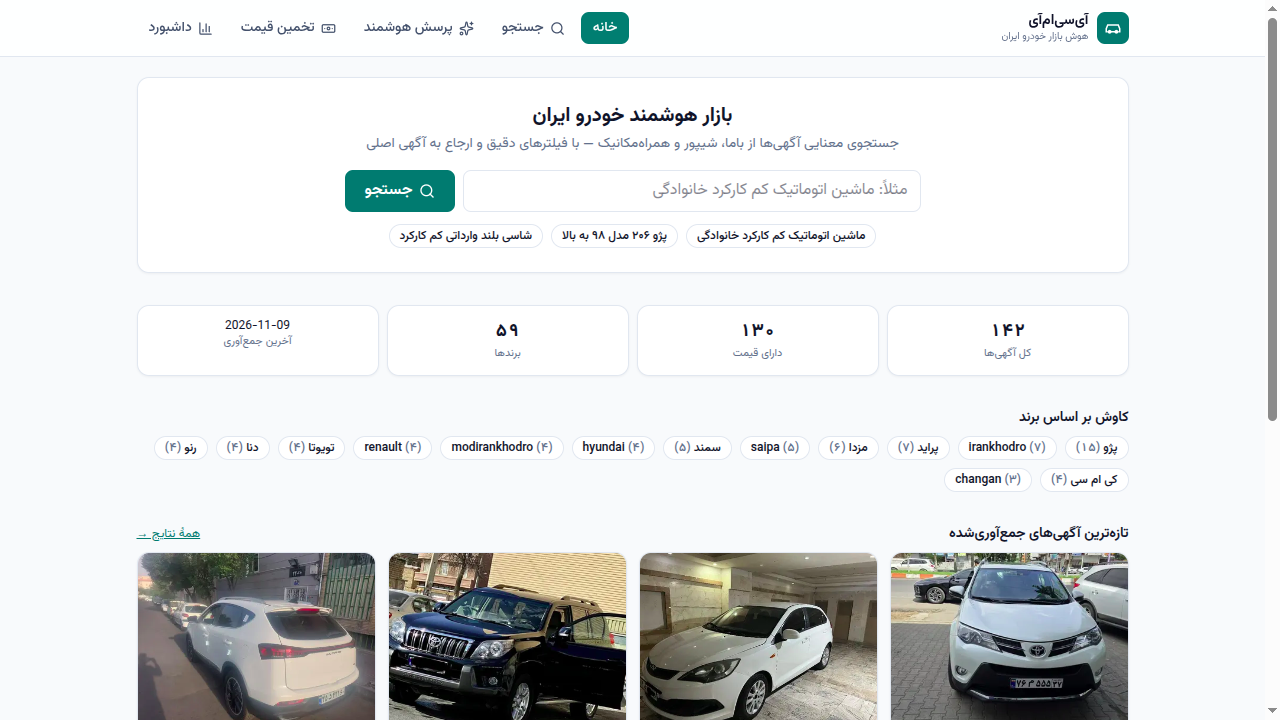
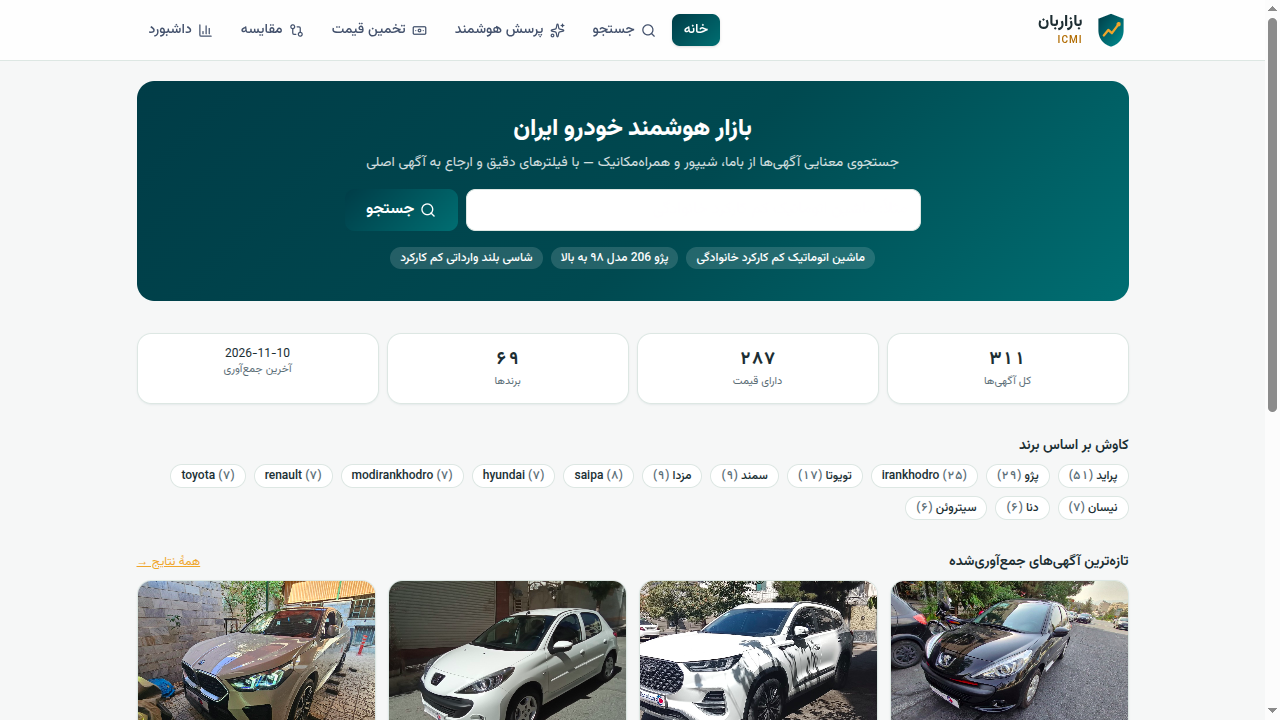
H0: brand identity بازاربان + Direction C palette (petrol/teal/amber)
- Persian product name بازاربان (market guardian) as primary wordmark,
  ICMI as technical identity; shield logo with amber market-signal line
  (SVG mark + favicon, works at all sizes)
- Palette Direction C: petrol #123c46 / teal #176b70 / amber #e6a23c with
  text-safe amber variant; semantic + chart series tokens; gradient hero
  and brand elements; neutral white content surfaces
- Vazirmatn retained (best open Persian UI font)
- metadata + footer updated to بازاربان (ICMI)

diff --git a/web/src/app/globals.css b/web/src/app/globals.css
@@ -1,35 +1,48 @@
 @import "tailwindcss";
 
-/* ICMI design tokens — modern, minimal, confident.
-   Palette: deep emerald primary with a cool cyan-blue gradient partner,
-   warm neutrals for surfaces, restrained amber for platform warmth. */
+/* ICMI | بازاربان design tokens — Direction C (Petrol Blue + Warm Amber)
+   Distinctive automotive/financial-intelligence identity.
+   Amber has a dedicated text-safe variant (WCAG-aware). */
 :root {
-  --background: #f6f8fa;
-  --foreground: #0b1220;
+  /* surfaces */
+  --background: #f6f7f7;
+  --foreground: #202d32;
   --card: #ffffff;
-  --border: #e3e9f0;
-  --muted: #5b6b7f;
-  --bg-muted: #eef2f7;
+  --border: #dfe6e3;
+  --muted: #5e6e76;
+  --bg-muted: #eef1f0;
 
-  /* brand accents */
-  --accent: #0e7c6b;
-  --accent-hover: #0b6355;
-  --accent-soft: #e6f7f3;
-  --accent-2: #0e7490;      /* cyan-blue gradient partner */
-  --gradient-brand: linear-gradient(135deg, #0e7c6b 0%, #0e7490 100%);
-  --gradient-hero: linear-gradient(135deg, #0b1220 0%, #113a36 55%, #0e7490 100%);
+  /* brand */
+  --primary: #123c46;        /* petrol blue */
+  --secondary: #176b70;      /* deep teal */
+  --accent: #e6a23c;         /* warm amber (fills) */
+  --accent-text: #a86a14;    /* text-safe amber */
+  --accent-soft: #fdf3e3;
+  --teal-soft: #e3f1f0;
+  --gradient-brand: linear-gradient(135deg, #123c46 0%, #176b70 100%);
+  --gradient-brand-wide: linear-gradient(120deg, #123c46 0%, #176b70 55%, #1e8a8f 100%);
+  --gradient-hero: linear-gradient(135deg, #123c46 0%, #14484f 55%, #176b70 100%);
 
   /* semantic */
-  --danger: #b91c1c;
-  --warning-bg: #fef3c7;
-  --warning-text: #92400e;
-  --info-bg: #e0e7ff;
-  --info-text: #4338ca;
+  --danger: #b3402e;
+  --danger-soft: #fbeae7;
+  --warning-bg: #fdf3e3;
+  --warning-text: #8a5a10;
+  --info-bg: #e3f1f0;
+  --info-text: #176b70;
+  --success: #2c7a5b;
+
+  /* charts (distinguishable series, light-theme safe) */
+  --chart-1: #176b70;
+  --chart-2: #e6a23c;
+  --chart-3: #5a7da0;
+  --chart-4: #b0576b;
+  --chart-5: #7c9a5c;
 
   /* elevation */
-  --shadow-sm: 0 1px 2px 0 rgb(11 18 32 / 0.06);
-  --shadow-md: 0 6px 18px -4px rgb(11 18 32 / 0.1);
-  --shadow-lg: 0 14px 34px -8px rgb(11 18 32 / 0.18);
+  --shadow-sm: 0 1px 2px 0 rgb(18 60 70 / 0.07);
+  --shadow-md: 0 6px 18px -4px rgb(18 60 70 / 0.12);
+  --shadow-lg: 0 14px 34px -8px rgb(18 60 70 / 0.2);
 }
 
 body {
@@ -51,7 +64,7 @@ body {
 .card-hover:hover {
   box-shadow: var(--shadow-md);
   transform: translateY(-2px);
-  border-color: #c9d6e2;
+  border-color: #c6d3cf;
 }
 
 .chip {
@@ -65,25 +78,25 @@ body {
 }
 
 .platform-bama {
-  background: linear-gradient(120deg, #fef3c7, #fde68a);
-  color: #92400e;
+  background: linear-gradient(120deg, #fdf3e3, #fae3bc);
+  color: #8a5a10;
 }
 .platform-sheypoor {
-  background: linear-gradient(120deg, #dbeafe, #bfdbfe);
-  color: #1e40af;
+  background: linear-gradient(120deg, #e3f1f0, #d0e6e4);
+  color: #123c46;
 }
 .platform-hamrah_mechanic {
-  background: linear-gradient(120deg, #dcfce7, #bbf7d0);
-  color: #166534;
+  background: linear-gradient(120deg, #e8f0e6, #d8e6d2);
+  color: #42632e;
 }
 
 .score-high {
-  background: linear-gradient(120deg, #ccfbf1, #d1fae5);
-  color: #0b6355;
+  background: linear-gradient(120deg, #e3f1f0, #d0e6e4);
+  color: #123c46;
 }
 .score-mid {
-  background: linear-gradient(120deg, #e0e7ff, #dbeafe);
-  color: #4338ca;
+  background: linear-gradient(120deg, #fdf3e3, #fae3bc);
+  color: #8a5a10;
 }
 .score-low {
   background: var(--bg-muted);
@@ -118,8 +131,8 @@ input:focus,
 select:focus,
 textarea:focus {
   outline: none;
-  border-color: var(--accent);
-  box-shadow: 0 0 0 3px var(--accent-soft);
+  border-color: var(--secondary);
+  box-shadow: 0 0 0 3px var(--teal-soft);
 }
 
 .btn {
@@ -134,7 +147,7 @@ textarea:focus {
   box-shadow: var(--shadow-sm);
 }
 .btn:hover:not(:disabled) {
-  filter: brightness(1.08);
+  filter: brightness(1.12);
   transform: translateY(-1px);
   box-shadow: var(--shadow-md);
 }
@@ -155,8 +168,14 @@ textarea:focus {
   transition: background 0.15s ease, border-color 0.15s ease;
 }
 .btn-secondary:hover {
-  background: var(--accent-soft);
-  border-color: var(--accent);
+  background: var(--teal-soft);
+  border-color: var(--secondary);
+}
+
+.btn-amber {
+  background: linear-gradient(120deg, #e6a23c, #d98f1f);
+  color: #231703;
+  font-weight: 700;
 }
 
 .tab-active {

diff --git a/web/src/app/layout.tsx b/web/src/app/layout.tsx
@@ -5,7 +5,7 @@ import Nav from "@/components/Nav";
 import "./globals.css";
 
 export const metadata: Metadata = {
-  title: "آیسیامآی — هوش بازار خودرو ایران",
+  title: "بازاربان | ICMI — هوش بازار خودرو ایران",
   description:
     "بازار هوشمند آگهیهای خودرو: جستجوی معنایی چندمنبعی، آمار بازار، تخمین قیمت و پرسشوپاسخ مبتنی بر شواهد",
 };
@@ -29,22 +29,12 @@ export default function RootLayout({
           style={{ background: "rgba(255,255,255,0.85)", backdropFilter: "blur(10px)", borderColor: "var(--border)" }}
         >
           <div className="mx-auto flex max-w-5xl items-center justify-between gap-3 px-4 py-3 flex-wrap">
-            <Link href="/" className="flex items-center gap-2">
-              <span
-                className="flex h-8 w-8 items-center justify-center rounded-lg text-white shadow-md"
-                style={{ background: "var(--gradient-brand)" }}
-              >
-                <svg viewBox="0 0 24 24" width="18" height="18" fill="none" stroke="currentColor" strokeWidth="2">
-                  <path d="M5 17h-2v-4l2-5h14l2 5v4h-2" />
-                  <circle cx="7.5" cy="17" r="1.5" />
-                  <circle cx="16.5" cy="17" r="1.5" />
-                  <path d="M9 17h6" />
-                </svg>
-              </span>
+            <Link href="/" className="flex items-center gap-2.5">
+              <img src="/bazargan-mark.svg" alt="بازاربان" className="h-9 w-9" />
               <div>
-                <p className="text-sm font-bold leading-4">آیسیامآی</p>
-                <p className="text-[10px]" style={{ color: "var(--muted)" }}>
-                  هوش بازار خودرو ایران
+                <p className="text-base font-extrabold leading-5 tracking-tight">بازاربان</p>
+                <p className="text-[10px] font-medium tracking-widest" style={{ color: "var(--accent-text)" }}>
+                  ICMI
                 </p>
               </div>
             </Link>

diff --git a/web/src/app/page.tsx b/web/src/app/page.tsx
@@ -43,7 +43,7 @@ export default function Home() {
         className="p-8 text-center rounded-[1.1rem]"
         style={{ background: "var(--gradient-hero)", color: "#fff" }}
       >
-        <h1 className="text-2xl font-bold tracking-tight">بازار هوشمند خودرو ایران</h1>
+        <h1 className="text-2xl font-extrabold tracking-tight">بازار هوشمند خودرو ایران</h1>
         <p className="mt-2 text-sm" style={{ color: "rgba(255,255,255,0.82)" }}>
           جستجوی معنایی آگهیها از باما، شیپور و همراهمکانیک — با فیلترهای
           دقیق و ارجاع به آگهی اصلی
